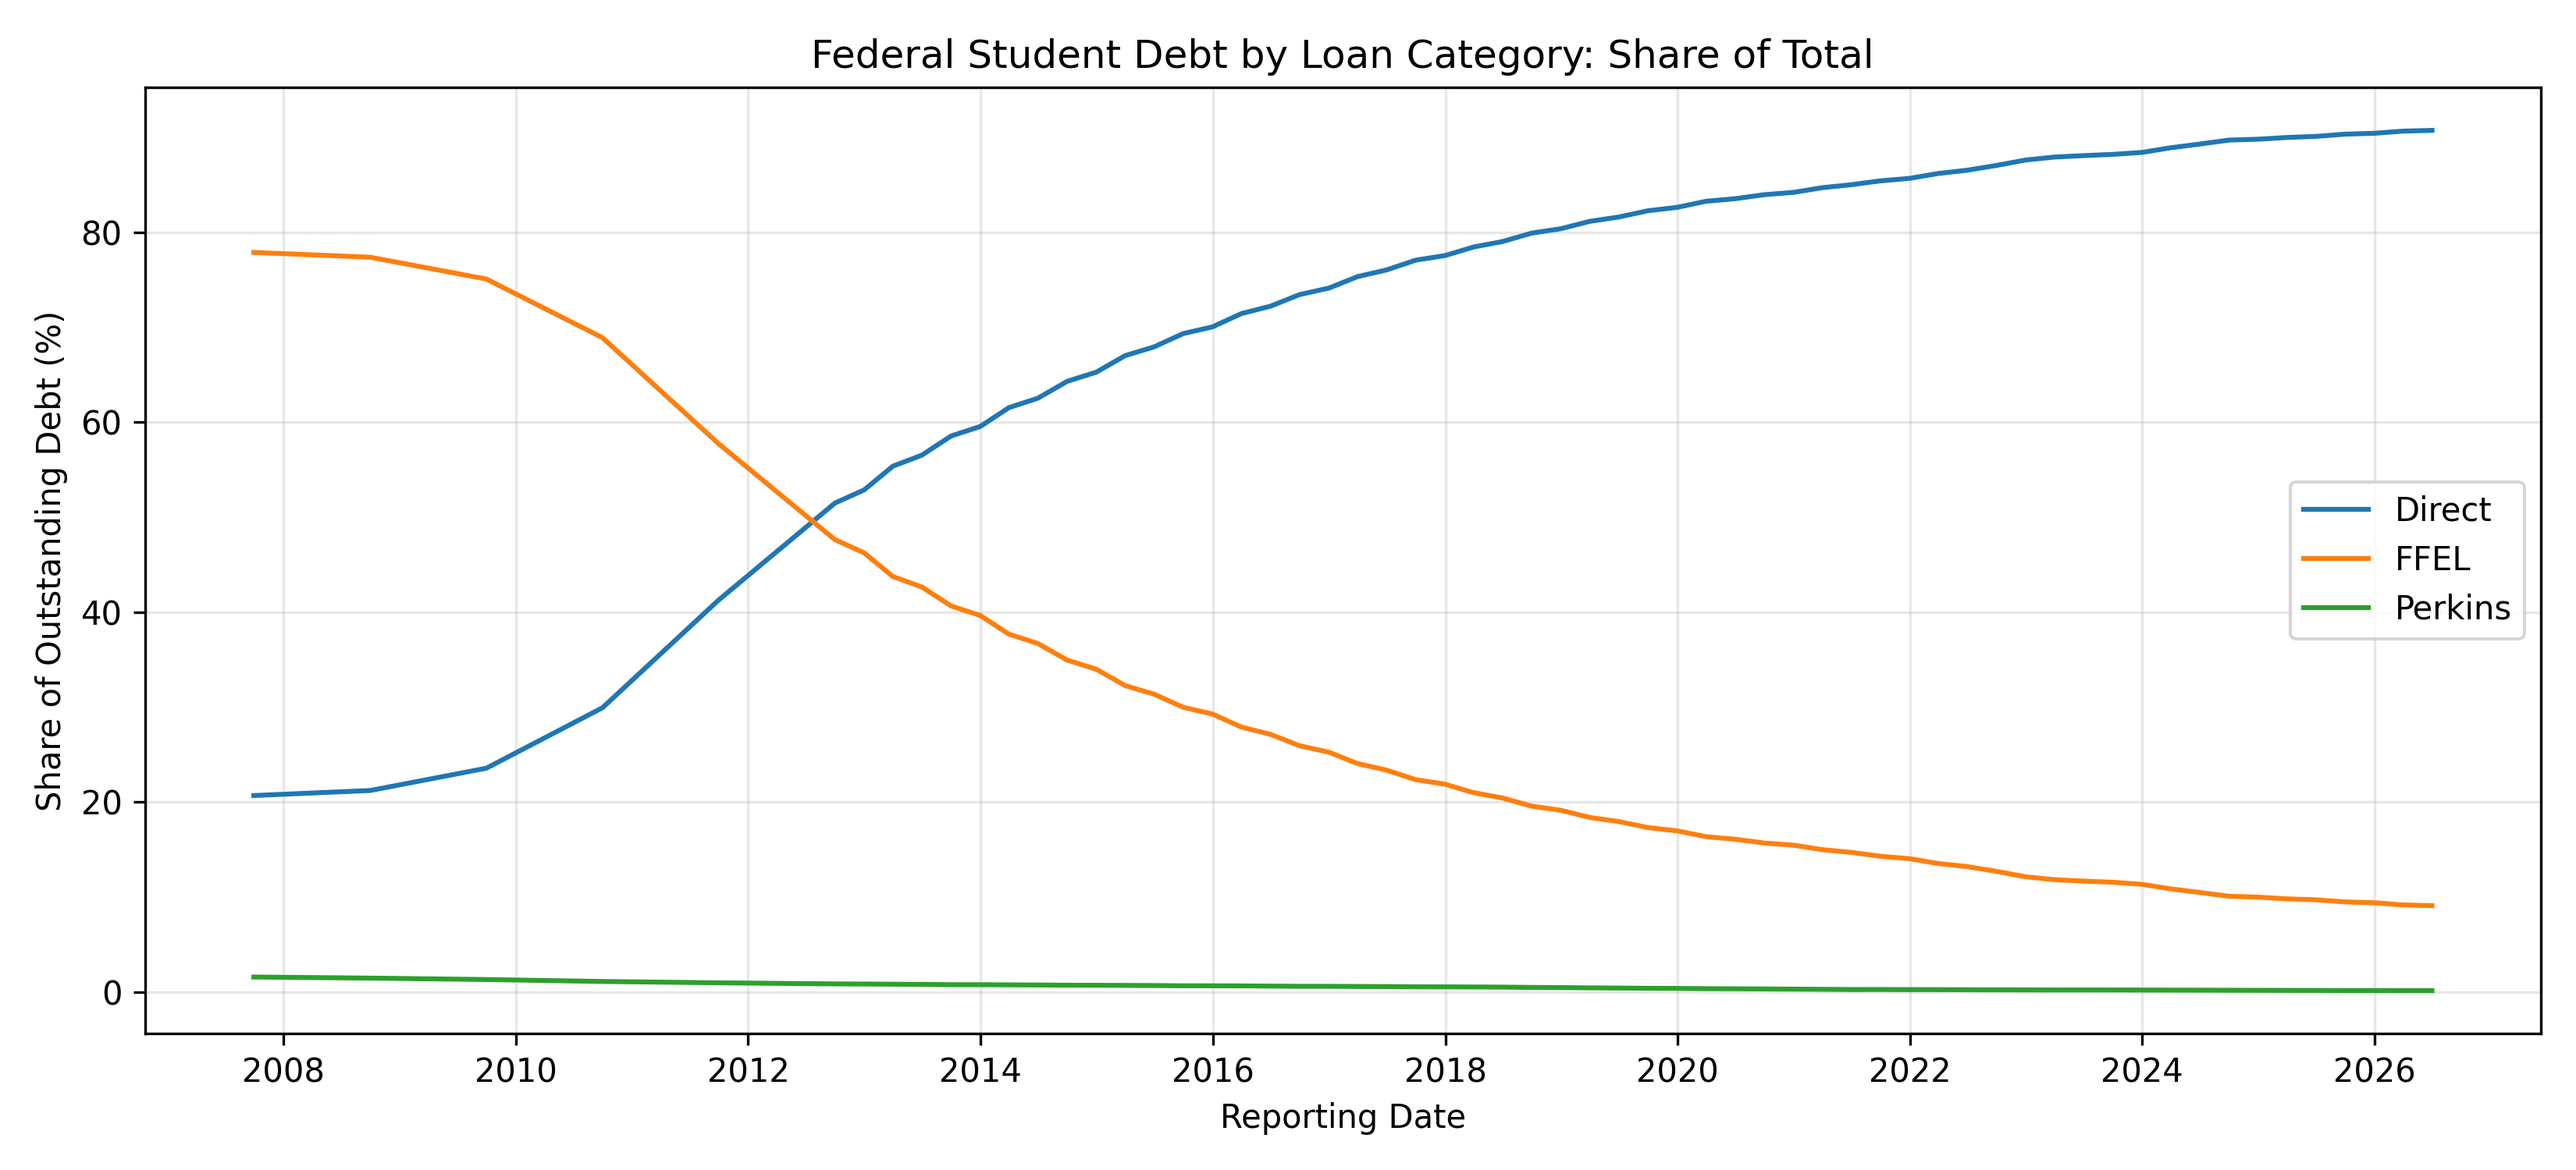
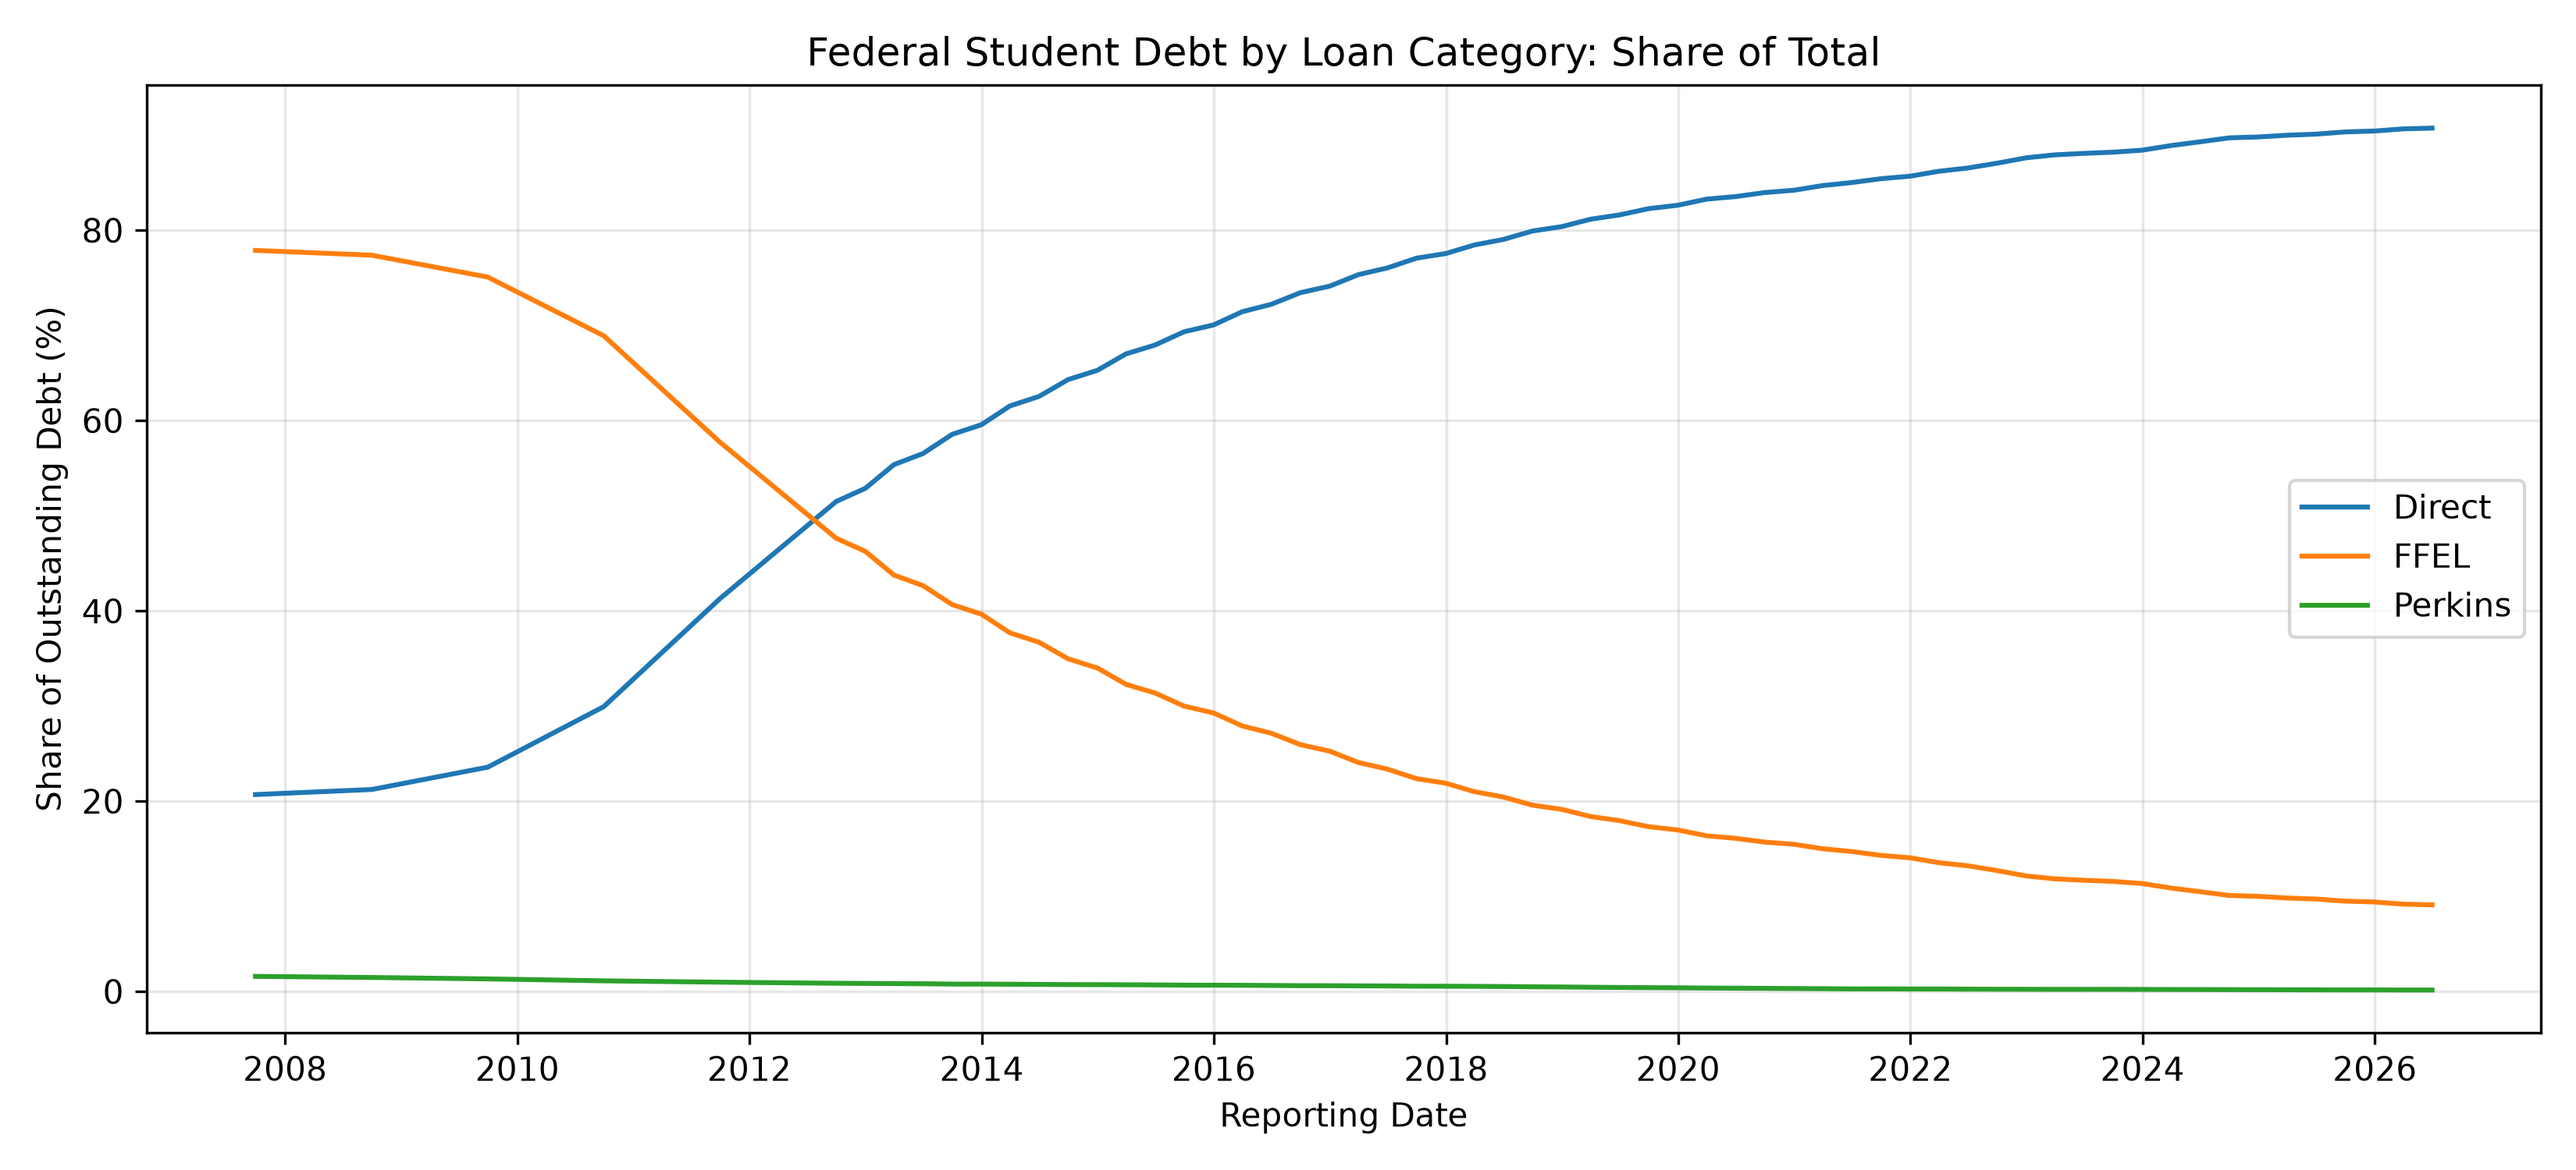
minor changes

diff --git a/SCRIPTS/08_plot_average_balance_per_recipient.py b/SCRIPTS/08_plot_average_balance_per_recipient.py
@@ -1,53 +1,72 @@
-import pandas as pd
+"""
+Script: 08_plot_average_balance_per_recipient.py
+Project: U.S. Federal Student Debt Analysis
+
+Purpose:
+    Plot average outstanding balances by loan program and overall.
+
+Input:
+    DATA/portfolio_clean.csv
+
+Output:
+    OUTPUT/Average Outstanding Balance per Recipient.png
+
+Required packages:
+    pandas, matplotlib
+"""
+
+from pathlib import Path
+
 import matplotlib.pyplot as plt
+import pandas as pd
 
-# Load cleaned data
-df = pd.read_csv("DATA/portfolio_clean.csv")
 
-# Convert reporting dates to datetime
-df["period_end"] = pd.to_datetime(df["period_end"])
+# Locate files relative to the repository, regardless of the current directory.
+ROOT = Path(__file__).resolve().parent.parent
+DATA_FILE = ROOT / "DATA" / "portfolio_clean.csv"
+OUTPUT_FILE = ROOT / "OUTPUT" / "Average Outstanding Balance per Recipient.png"
+OUTPUT_FILE.parent.mkdir(exist_ok=True)
+
+# Load and order the cleaned data.
+df = pd.read_csv(DATA_FILE, parse_dates=["period_end"])
 df = df.sort_values("period_end")
 
-# Create line graph
-plt.figure(figsize=(14, 8))
-
-plt.plot(
+# Plot program-level and overall average outstanding balances.
+fig, ax = plt.subplots(figsize=(14, 8))
+ax.plot(
     df["period_end"],
     df["direct_avg_balance_thousands"],
-    label="Direct Loans"
+    label="Direct Loans",
 )
-
-plt.plot(
+ax.plot(
     df["period_end"],
     df["ffel_avg_balance_thousands"],
-    label="FFEL"
+    label="FFEL",
 )
-
-plt.plot(
+ax.plot(
     df["period_end"],
     df["perkins_avg_balance_thousands"],
-    label="Perkins"
+    label="Perkins",
 )
-
-plt.plot(
+ax.plot(
     df["period_end"],
     df["total_avg_balance_thousands"],
     label="Total Average",
     color="red",
     linestyle="--",
-    linewidth=2.5
+    linewidth=2.5,
 )
 
-# Add title and labels
-plt.title("Average Outstanding Balance per Recipient")
-plt.xlabel("Reporting Date")
-plt.ylabel("Average Balance ($ Thousands)")
+ax.set_title("Average Outstanding Balance per Recipient")
+ax.set_xlabel("Reporting Date")
+ax.set_ylabel("Average Balance ($ Thousands)")
+ax.legend()
+ax.grid(True, alpha=0.3)
+fig.autofmt_xdate()
+fig.tight_layout()
 
-# Format graph
-plt.legend()
-plt.grid(True, alpha=0.3)
-plt.xticks(rotation=45)
-plt.tight_layout()
+fig.savefig(OUTPUT_FILE, dpi=300)
+plt.close(fig)
 
-# Display graph
-plt.show()
+print("Average-balance plot saved to:")
+print(OUTPUT_FILE)

diff --git a/SCRIPTS/07_plot_debt_by_category.py b/SCRIPTS/07_plot_debt_by_category.py
@@ -1,28 +1,52 @@
-import pandas as pd
+"""
+Script: 07_plot_debt_by_category.py
+Project: U.S. Federal Student Debt Analysis
+
+Purpose:
+    Plot outstanding federal student debt by loan category.
+
+Input:
+    DATA/portfolio_clean.csv
+
+Output:
+    OUTPUT/Federal Student Debt By Loan Category.png
+
+Required packages:
+    pandas, matplotlib
+"""
+
+from pathlib import Path
+
 import matplotlib.pyplot as plt
+import pandas as pd
 
-# Load cleaned data
-df = pd.read_csv("DATA/portfolio_clean.csv")
 
-# Convert reporting dates to datetime
-df["period_end"] = pd.to_datetime(df["period_end"])
+# Locate files relative to the repository, regardless of the current directory.
+ROOT = Path(__file__).resolve().parent.parent
+DATA_FILE = ROOT / "DATA" / "portfolio_clean.csv"
+OUTPUT_FILE = ROOT / "OUTPUT" / "Federal Student Debt By Loan Category.png"
+OUTPUT_FILE.parent.mkdir(exist_ok=True)
+
+# Load and order the cleaned data.
+df = pd.read_csv(DATA_FILE, parse_dates=["period_end"])
 df = df.sort_values("period_end")
 
-# Create line graph
-plt.figure(figsize=(14, 8))
+# Plot outstanding debt for the three reported loan programs.
+fig, ax = plt.subplots(figsize=(14, 8))
+ax.plot(df["period_end"], df["direct_debt_billions"], label="Direct Loans")
+ax.plot(df["period_end"], df["ffel_debt_billions"], label="FFEL")
+ax.plot(df["period_end"], df["perkins_debt_billions"], label="Perkins")
 
-plt.plot(df["period_end"], df["direct_outstanding_billions"], label="Direct Loans")
-plt.plot(df["period_end"], df["ffel_outstanding_billions"], label="FFEL")
-plt.plot(df["period_end"], df["perkins_outstanding_billions"], label="Perkins")
+ax.set_title("Federal Student Debt by Loan Category")
+ax.set_xlabel("Reporting Date")
+ax.set_ylabel("Outstanding Debt ($ Billions)")
+ax.legend()
+ax.grid(True, alpha=0.3)
+fig.autofmt_xdate()
+fig.tight_layout()
 
-# Add labels and formatting
-plt.title("Federal Student Debt by Loan Category")
-plt.xlabel("Reporting Date")
-plt.ylabel("Outstanding Debt ($ Billions)")
-plt.legend()
-plt.grid(True, alpha=0.3)
-plt.xticks(rotation=45)
-plt.tight_layout()
+fig.savefig(OUTPUT_FILE, dpi=300)
+plt.close(fig)
 
-# Display graph
-plt.show()
+print("Loan-category debt plot saved to:")
+print(OUTPUT_FILE)

diff --git a/README.md b/README.md
@@ -12,18 +12,18 @@ The data comes from the Federal Student Aid Portfolio Summary [1]. It contains 6
 
 The analysis uses Python and the five packages below. Excel is not required because Python reads the original spreadsheet directly.
 
-The table lists the latest stable releases as of October 21, 2026 [2]–[7]. These versions have not been tested together on this project and are not a record of the versions used to generate the saved results.
+The table lists the versions used to run all eight scripts and regenerate the saved results on October 22, 2026 [2]–[7].
 
-| Software or package | Exact version | Purpose |
+| Software or package | Version | Purpose |
 |---|---|---|
-| Python | 3.15.1 | Runs the scripts |
-| NumPy | 2.5.4 | Performs numerical calculations |
-| pandas | 3.0.6 | Cleans data and works with tables |
+| Python | 3.11.15 | Runs the scripts |
+| NumPy | 2.4.6 | Performs numerical calculations |
+| pandas | 3.1.0 | Cleans data and works with tables |
 | Matplotlib | 3.11.2 | Creates figures |
 | statsmodels | 0.15.0 | Fits and checks statistical models |
 | xlrd | 2.0.2 | Reads the original `.xls` file |
 
-The current computer uses Windows, version 25H2, build 26200.9711. The metadata file was exported from Google Colab, but the platform used to generate the saved analysis results is not recorded.
+The verified run used Windows, version 25H2, build 26200.9711. Matplotlib used its noninteractive `Agg` backend to generate the figures.
 
 ## 2. Map of the Documentation
 
@@ -34,7 +34,7 @@ DS_4002-Project-2-MI3/
 |-- DATA/
 |   |-- PortfolioSummary.xls
 |   |-- portfolio_clean.csv
-|   `-- project_2_metadata.py
+|   `-- README.md
 |-- SCRIPTS/
 |   |-- 01_clean_data.py
 |   |-- 02_debt_trends.py
@@ -47,14 +47,14 @@ DS_4002-Project-2-MI3/
 `-- OUTPUT/
     |-- average_balance_composition.csv
     |-- average_balance_effects.png
-    |-- average_outstanding_balance_per_recipient.png
+    |-- Average Outstanding Balance per Recipient.png
     |-- debt_decomposition_contributions.png
     |-- debt_growth_decomposition.csv
     |-- debt_growth_rates.csv
     |-- debt_over_time.png
     |-- debt_yoy_growth.png
     |-- decomposition_validation.txt
-    |-- federal_student_debt_by_loan_category.png
+    |-- Federal Student Debt By Loan Category.png
     |-- final_evaluation_checklist.csv
     |-- final_evaluation_report.txt
     |-- final_model_comparison.png
@@ -74,7 +74,7 @@ DS_4002-Project-2-MI3/
     `-- selected_breakpoints.csv
 ```
 
-`PortfolioSummary.xls` is the original data. `portfolio_clean.csv` is the cleaned data used in the analysis. `project_2_metadata.py` contains the data description, source, ethical statements, data dictionary, and explanatory plots exported from Colab. It does not need to be run.
+`PortfolioSummary.xls` is the original data. `portfolio_clean.csv` is the cleaned data used in the analysis. `DATA/README.md` contains the data description, source, ethical statements, data dictionary, and explanatory plots.
 
 Output files ending in `.csv` are tables, `.png` files are figures, and `.txt` files are reports or calculation checks.
 
@@ -88,7 +88,7 @@ Use the included `DATA/PortfolioSummary.xls` file. Downloading a newer version f
 
 ### Step 2: Set up Python
 
-Install Python 3.15.1 [2] and open a terminal in the extracted project folder, where `README.md` is located. In Windows, you can open that folder in File Explorer, type `powershell` in the address bar, and press Enter.
+Install Python 3.11 [2] and open a terminal in the extracted project folder, where `README.md` is located. In Windows, you can open that folder in File Explorer, type `powershell` in the address bar, and press Enter.
 
 Check that Python is available:
 
@@ -105,22 +105,25 @@ python -m venv .venv
 Install the required packages into that environment:
 
 ```powershell
-.\.venv\Scripts\python.exe -m pip install numpy==2.5.4 pandas==3.0.6 matplotlib==3.11.2 statsmodels==0.15.0 xlrd==2.0.2
+.\.venv\Scripts\python.exe -m pip install numpy==2.4.6 pandas==3.1.0 matplotlib==3.11.2 statsmodels==0.15.0 xlrd==2.0.2
 ```
 
-This command installs the exact package versions listed above. Other required dependencies are installed automatically. Results may differ from the saved outputs because the original software versions were not recorded.
+This command installs the exact package versions used in the verified run. Other required dependencies are installed automatically.
 
 ### Step 3: Run the scripts in order
 
 Run each command below separately. Wait for it to finish before running the next one. If a command reports an error, resolve it before continuing. These commands replace the cleaned data and generated outputs.
 
 ```powershell
+$env:MPLBACKEND = "Agg"
 .\.venv\Scripts\python.exe SCRIPTS/01_clean_data.py
 .\.venv\Scripts\python.exe SCRIPTS/02_debt_trends.py
 .\.venv\Scripts\python.exe SCRIPTS/03_segmented_regression.py
 .\.venv\Scripts\python.exe SCRIPTS/04_debt_decomposition.py
 .\.venv\Scripts\python.exe SCRIPTS/05_loan_composition.py
 .\.venv\Scripts\python.exe SCRIPTS/06_model_evaluation.py
+.\.venv\Scripts\python.exe SCRIPTS/07_plot_debt_by_category.py
+.\.venv\Scripts\python.exe SCRIPTS/08_plot_average_balance_per_recipient.py
 ```
 
 | Script | What it does |
@@ -131,6 +134,8 @@ Run each command below separately. Wait for it to finish before running the next
 | `04_debt_decomposition.py` | Divides debt growth into changes in borrower counts and changes in average balances. |
 | `05_loan_composition.py` | Examines changes across loan programs and accounts for recipients who appear in more than one program. |
 | `06_model_evaluation.py` | Compares model results, checks that the calculations add up, and creates a final report and checklist. |
+| `07_plot_debt_by_category.py` | Plots outstanding debt for Direct, FFEL, and Perkins loans. |
+| `08_plot_average_balance_per_recipient.py` | Plots average outstanding balances by loan program and for all recipients. |
 
 Scripts 4 and 5 need the breakpoint file created by script 3. Script 6 needs the results from the earlier scripts. Script 3 may take longer because it fits several models.
 

diff --git a/DATA/README.md b/DATA/README.md
@@ -1,26 +1,26 @@
 
-PROJECT 2: METADATA
+# Project 2 Data Metadata
 
 
-### **DATA SUMMARY**
+## Data Summary
 
 The project uses a data set from the Federal Student Aid (FSA) Portfolio Summary, a single spreadsheet with 61 time points (annual for FY2007–2012, quarterly from FY2013 Q1 to FY2026 Q3) and no missing values. For Direct Loans, FFEL and Perkins Loans, it reports dollars outstanding and recipients, plus totals, which map to the debt, borrower-count, average-balance and loan-composition parts of our research question. Total debt grew from $516.0B to $1,724.5B, and Direct Loans went from about 21% to 91% of it.
 
 The final processed dataset has filled in missing fiscal-year values, converted reporting periods to period-end dates, standardized column names and data types, and calculated average balance per recipient.
 
-**PROVENANCE**
+## Provenance
 
 The data originally comes from the Federal Student Aid (FSA) Portfolio Summary, published through the FSA Data Center by the U.S. Department of Education and compiled from the National Student Loan Data System (NSLDS). The workbook has one row per period and reports outstanding debt (in billions) and recipients (in millions) for Direct Loans, FFEL, and Perkins Loans, along with total debt and total recipients.
 
-**LICENSE**
+## License
 
 Data produced by a U.S. federal agency is generally a U.S. Government work in the public domain (17 U.S.C. §105), so it can be reused and redistributed freely.
 
-**ETHICAL** **STATEMENTS**
+## Ethical Statements
 
 The data is aggregated by loan category and quarter and contains no personally identifiable information. A “recipient” is the student who benefits, and on Parent PLUS loans the borrower is the parent. National totals also hide differences across demographic and institutional groups. Findings will be descriptive and point to changes external events.
 
-# Data Dictionary
+## Data Dictionary
 
 The cleaned dataset is saved as `portfolio_clean.csv`.
 
@@ -42,13 +42,15 @@ The cleaned dataset is saved as `portfolio_clean.csv`.
 | `perkins_avg_balance_thousands` | Perkins debt divided by Perkins recipients | Numeric (Float) | Thousands of US dollars per recipient |
 | `total_avg_balance_thousands` | Total debt divided by total recipients | Numeric (Float) | Thousands of US dollars per recipient |
 
-**EXPLANATORY** **PLOTS**
+## Explanatory Plots
 
 
-Federal Student Debt by Loan Category
-<img width="1356" height="755" alt="Federal Student Debt By Loan Category" src="https://github.com/user-attachments/assets/c2ea5117-8bfc-4fb2-9321-8c58b05d7afa" />
+### Federal Student Debt by Loan Category
 
-Average Outstanding Balance Per Recipient
-<img width="1069" height="617" alt="Average Outstanding Balance per Recipient" src="https://github.com/user-attachments/assets/973c7be3-57c5-404f-9c8e-52300911cc29" />
+![Federal Student Debt by Loan Category](../OUTPUT/Federal%20Student%20Debt%20By%20Loan%20Category.png)
+
+### Average Outstanding Balance per Recipient
+
+![Average Outstanding Balance per Recipient](../OUTPUT/Average%20Outstanding%20Balance%20per%20Recipient.png)
 
 
